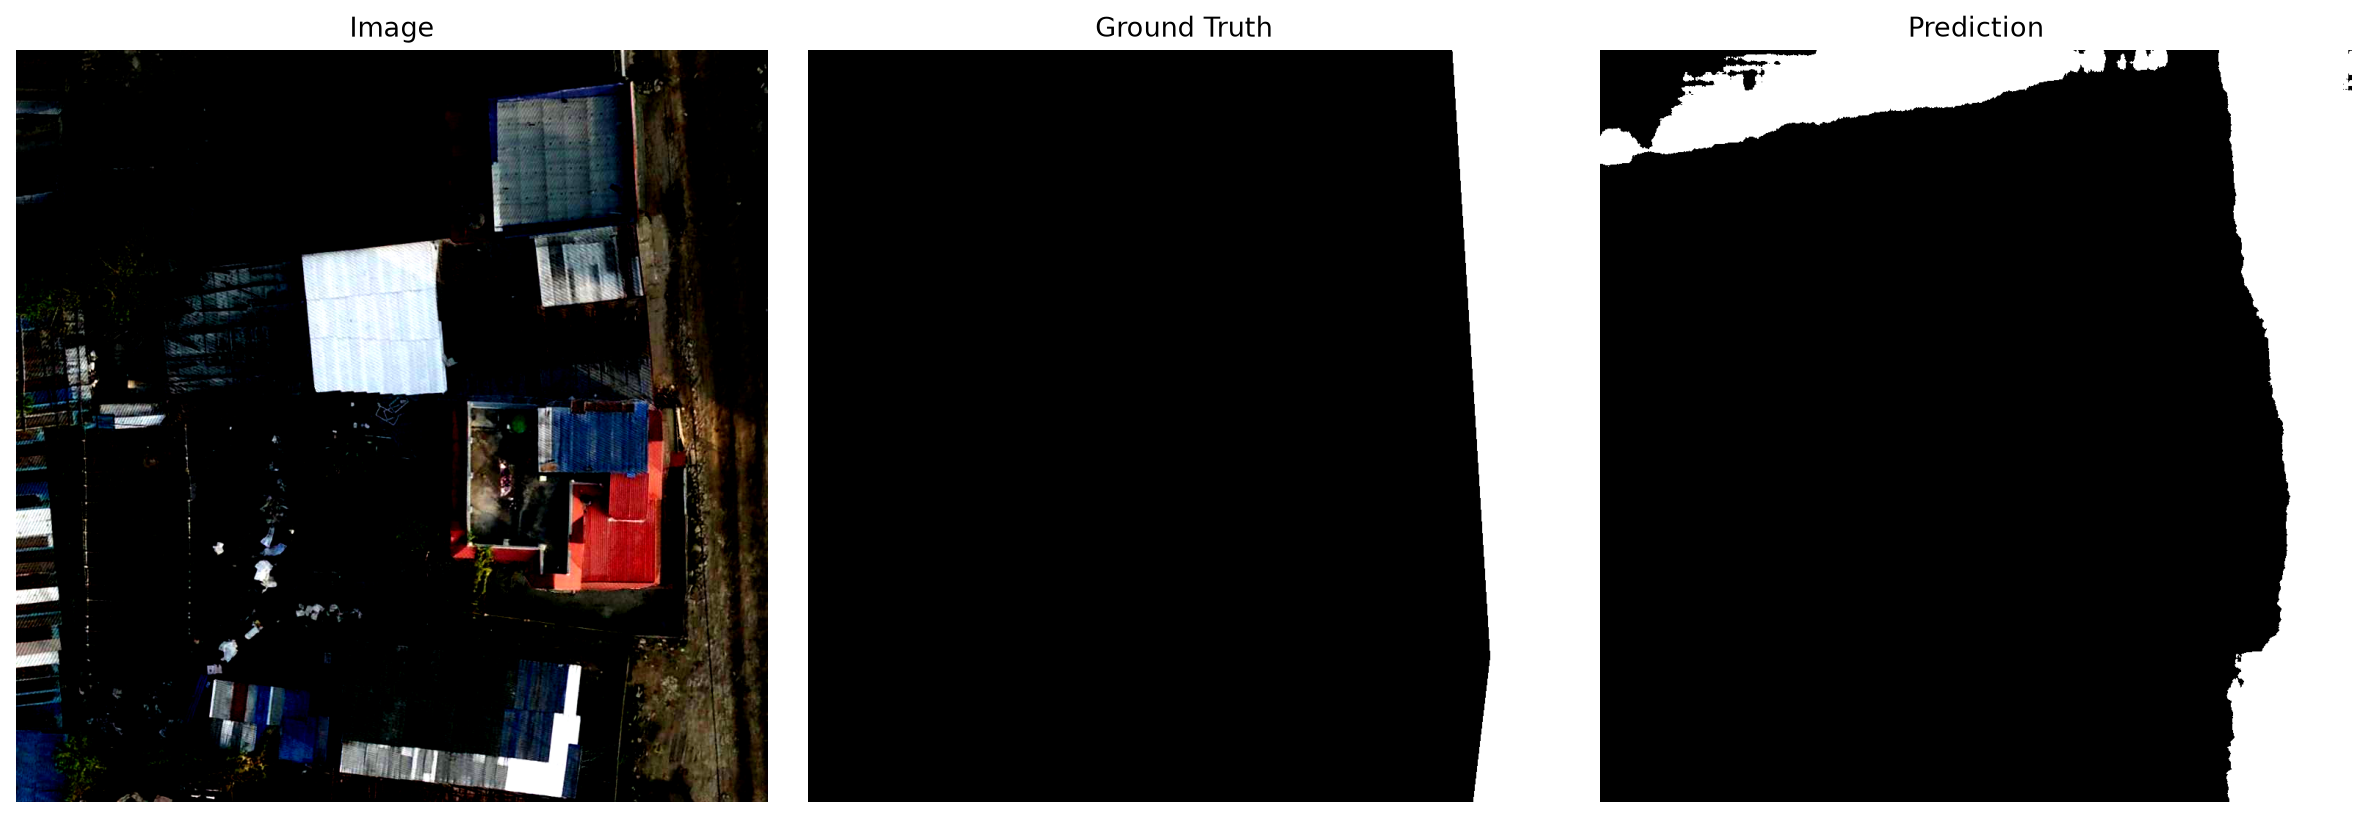
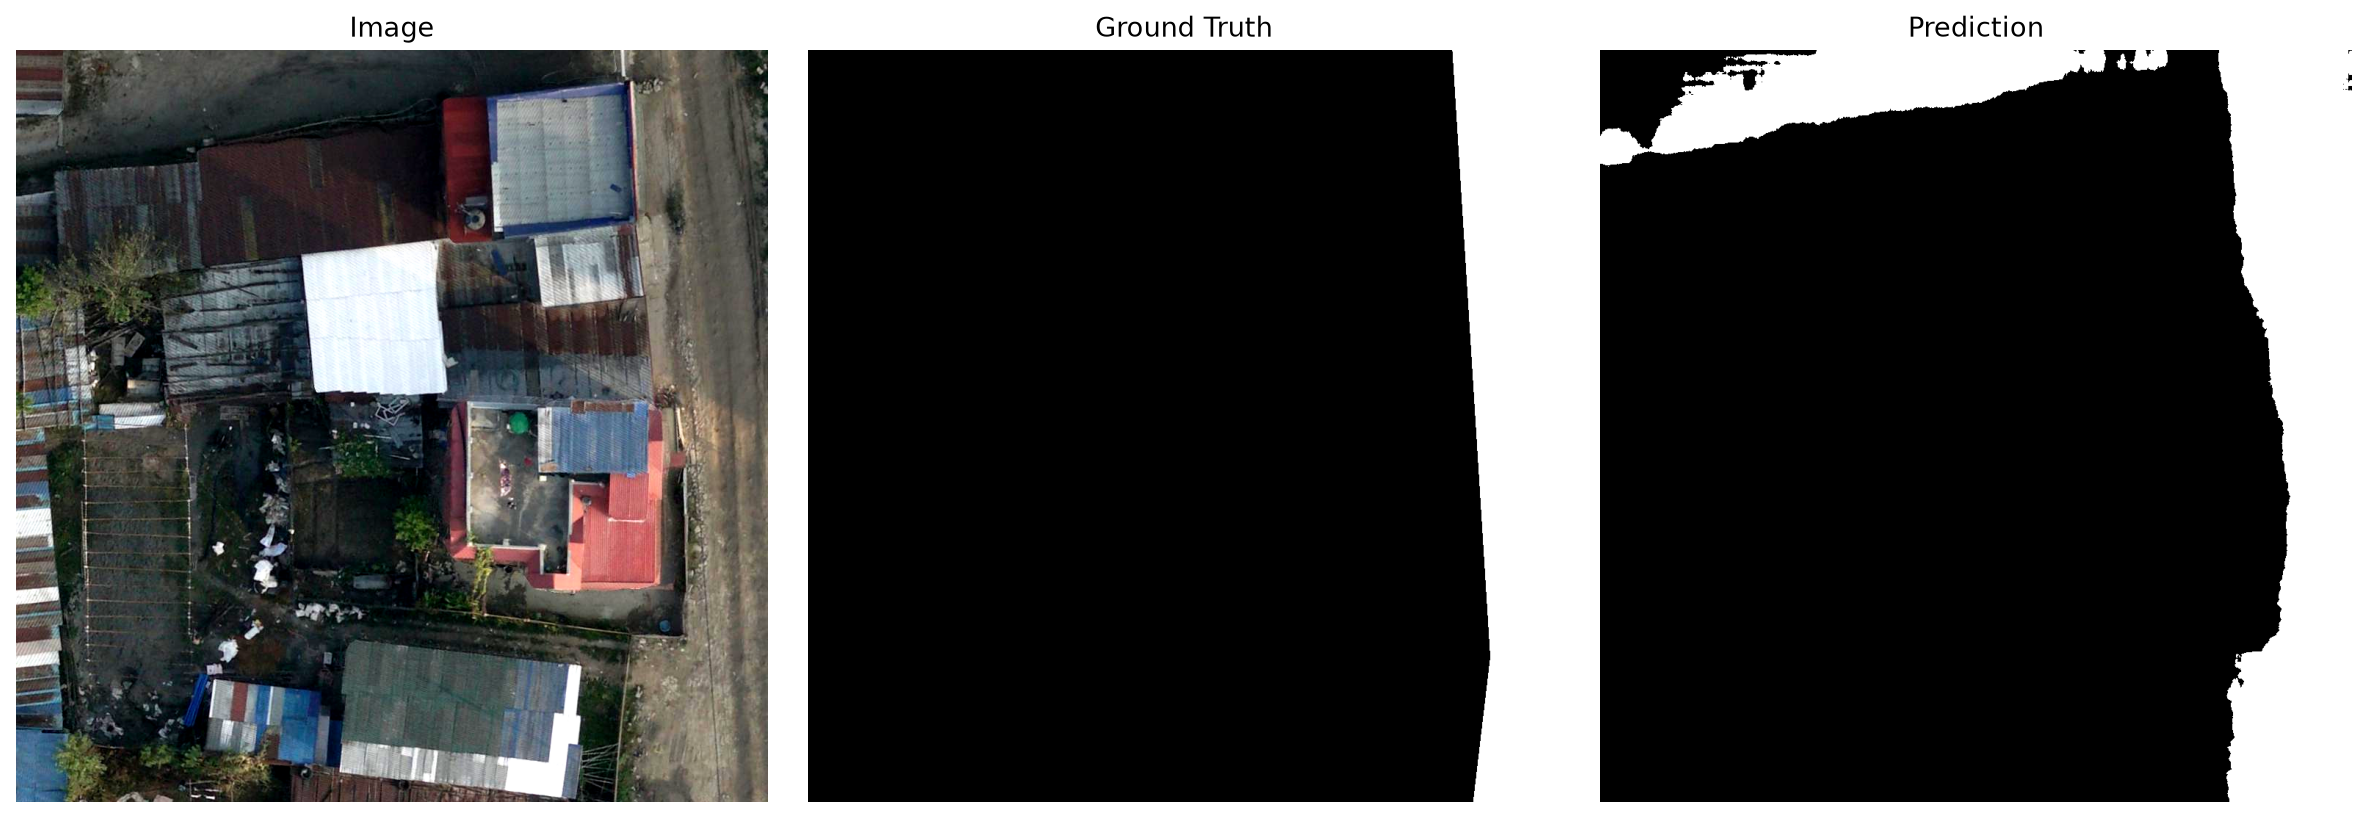
Fix dark prediction visualizations

Changed region(s): [[0.0, 0.0611, 0.3438, 1.0]]

diff --git a/sam3_roads/visualize.py b/sam3_roads/visualize.py
@@ -61,9 +61,7 @@ def save_prediction_preview(
             logits = resize_logits_to_target(logits, masks)
             pred_mask = (torch.sigmoid(logits) > threshold).float()
 
-            img_np = images[0].float().clamp(0, 1).cpu().permute(1, 2, 0).numpy()
-            p2, p98 = np.percentile(img_np, (2, 98))
-            img_np = np.clip((img_np - p2) / (p98 - p2 + 1e-6), 0, 1)
+            img_np = _display_rgb(images[0])
 
             gt_np = masks[0, 0].float().cpu().numpy()
             pred_np = pred_mask[0, 0].float().cpu().numpy()
@@ -107,7 +105,7 @@ def save_split_predictions(
     for item_index in range(batch_size):
         dataset_index = batch_index * batch_size + item_index
         stem = Path(dataset.image_filenames[dataset_index]).stem
-        rgb = _stretch(images[item_index].detach().cpu().float().clamp(0, 1).permute(1, 2, 0).numpy())
+        rgb = _display_rgb(images[item_index])
         truth = masks[item_index, 0].detach().cpu().numpy()
         prediction = predictions[item_index, 0].detach().cpu().numpy()
         rgb_path = output_dir / f"{stem}_image.png"
@@ -139,6 +137,13 @@ def save_split_predictions(
 def _stretch(image: np.ndarray) -> np.ndarray:
     low, high = np.percentile(image, (2, 98))
     return np.clip((image - low) / (high - low + 1e-6), 0, 1)
+
+
+def _display_rgb(image: torch.Tensor) -> np.ndarray:
+    """Convert SAM3-normalized RGB input to a contrast-stretched display image."""
+    rgb = image.detach().cpu().float().permute(1, 2, 0).numpy()
+    rgb = rgb * np.array((0.5, 0.5, 0.5)) + np.array((0.5, 0.5, 0.5))
+    return _stretch(np.clip(rgb, 0, 1))
 
 
 def _skeleton(mask: np.ndarray) -> np.ndarray:
@@ -175,7 +180,7 @@ def export_portfolio_assets(config: AppConfig, checkpoint_path: Path, output_dir
         predictions = (torch.sigmoid(resize_logits_to_target(model(pixel_values=images), masks)) > 0.5).float()
 
     for index in range(min(4, images.shape[0])):
-        rgb = _stretch(images[index].cpu().permute(1, 2, 0).numpy())
+        rgb = _display_rgb(images[index])
         truth = masks[index, 0].cpu().numpy()
         prediction = predictions[index, 0].cpu().numpy()
         skeleton = _skeleton(prediction)
@@ -206,7 +211,7 @@ def export_portfolio_assets(config: AppConfig, checkpoint_path: Path, output_dir
 
     fig, axes = plt.subplots(1, 3, figsize=(15, 5))
     for axis, index, title in zip(axes, range(3), ["Canopy shadows", "Unpaved roads", "Sharp turns"]):
-        rgb = _stretch(images[index].cpu().permute(1, 2, 0).numpy())
+        rgb = _display_rgb(images[index])
         axis.imshow(rgb)
         axis.imshow(predictions[index, 0].cpu(), cmap="cool", alpha=0.45)
         axis.set_title(title)
